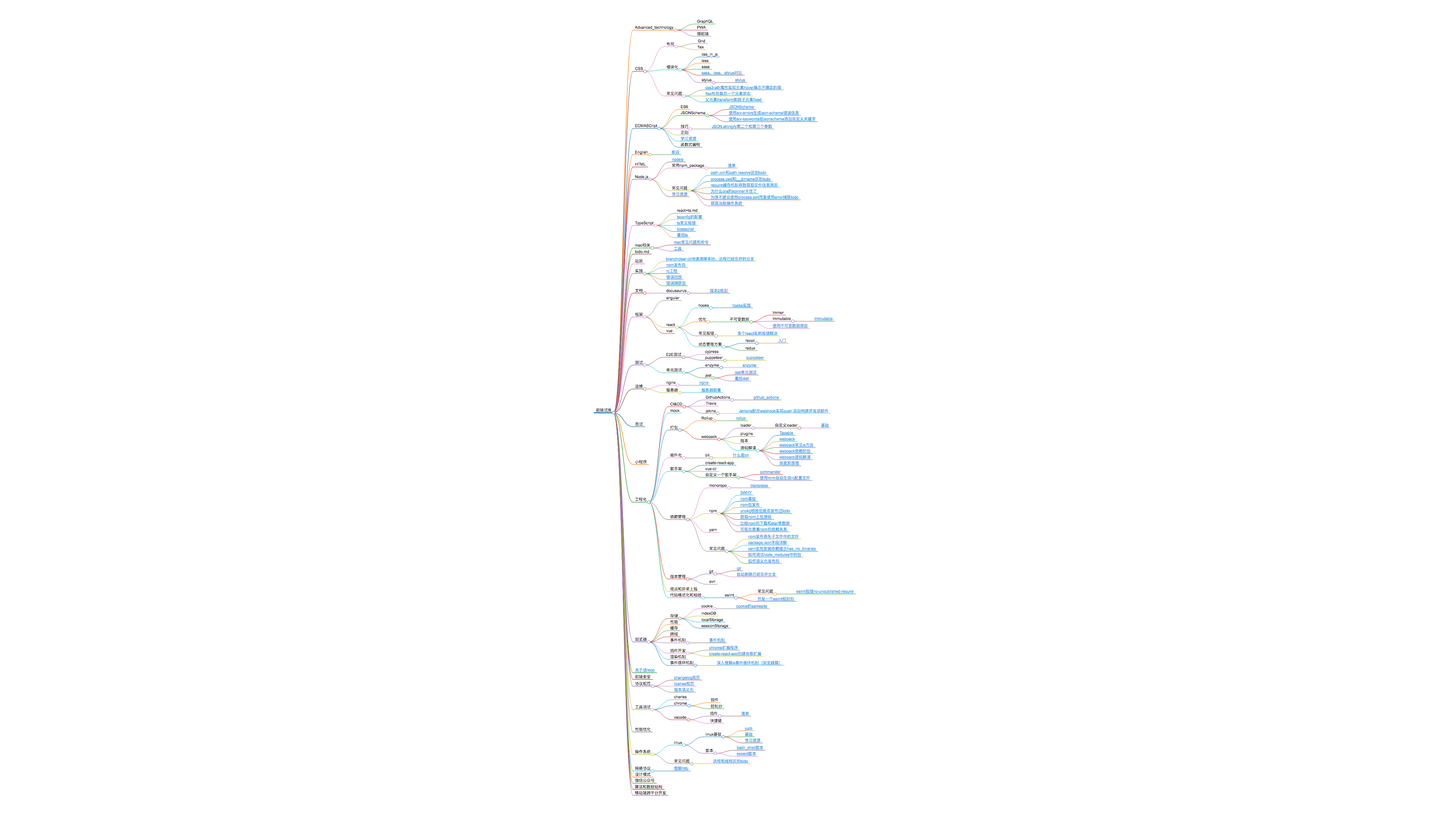
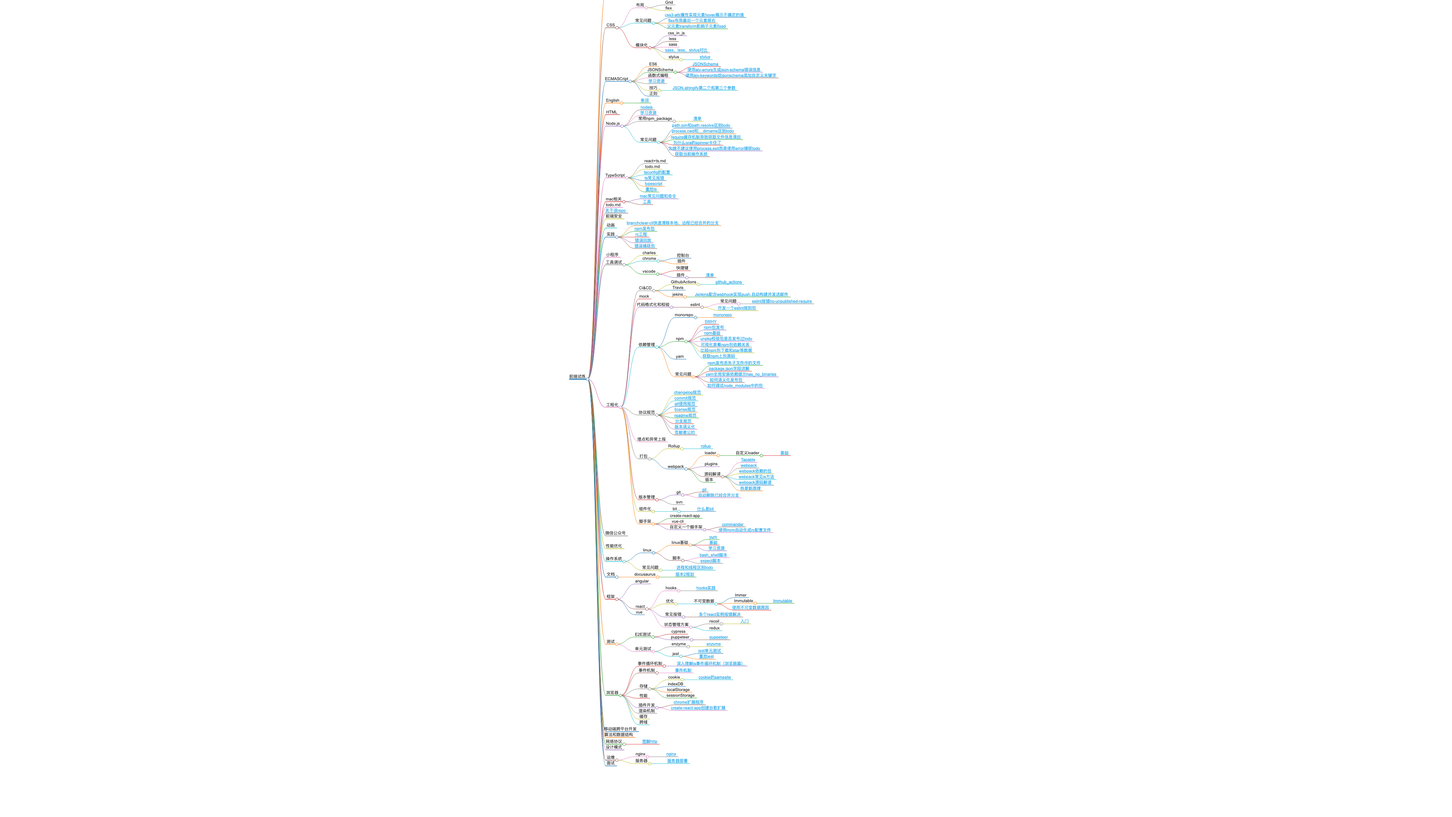
chore: updata思维导图

Changed region(s): [[0.4062, 0.0, 0.5625, 0.9926]]

diff --git a/website/static/xmind.html b/website/static/xmind.html
@@ -28,6 +28,6 @@
         (init ? init(loadPlugins, items, opts) : Promise.resolve()).then(() => {
           window.mm = Markmap.create('svg#mindmap', null, data);
         });
-      })({"t":"heading","d":1,"v":"前端试炼","c":[{"t":"list_item","d":2,"v":"Advanced_technology","c":[{"t":"list_item","d":3,"v":"GraphQL"},{"t":"list_item","d":3,"v":"PWA"},{"t":"list_item","d":3,"v":"微前端"}]},{"t":"list_item","d":2,"v":"CSS","c":[{"t":"list_item","d":3,"v":"布局","c":[{"t":"list_item","d":4,"v":"Grid"},{"t":"list_item","d":4,"v":"flex"}]},{"t":"list_item","d":3,"v":"模块化","c":[{"t":"list_item","d":4,"v":"css_in_js"},{"t":"list_item","d":4,"v":"less"},{"t":"list_item","d":4,"v":"sass"},{"t":"list_item","d":4,"v":"<a href=\"docs/CSS/模块化/98c70242585e1c8ac87207d342ab81e0\" title=\"\" target=\"_blank\" rel=\"noopener noreferrer\">sass、less、stylus对比</a>"},{"t":"list_item","d":4,"v":"stylus","c":[{"t":"list_item","d":5,"v":"<a href=\"docs/CSS/模块化/stylus/3eef002bc8e16c0f5c28e748a52e231d\" title=\"\" target=\"_blank\" rel=\"noopener noreferrer\">stylus</a>"}]}]},{"t":"list_item","d":3,"v":"常见问题","c":[{"t":"list_item","d":4,"v":"<a href=\"docs/CSS/常见问题/61b2f8a60701c5411f074197b3433767\" title=\"\" target=\"_blank\" rel=\"noopener noreferrer\">css3-attr属性实现元素hover展示不确定的值</a>"},{"t":"list_item","d":4,"v":"<a href=\"docs/CSS/常见问题/f62b493f30c8df1b193364b4dee70da6\" title=\"\" target=\"_blank\" rel=\"noopener noreferrer\">flex布局最后一个元素居右</a>"},{"t":"list_item","d":4,"v":"<a href=\"docs/CSS/常见问题/caabb2c62d551b0596f7d903c362be1c\" title=\"\" target=\"_blank\" rel=\"noopener noreferrer\">父元素transform影响子元素fixed</a>"}]}]},{"t":"list_item","d":2,"v":"ECMASCript","c":[{"t":"list_item","d":3,"v":"ES6"},{"t":"list_item","d":3,"v":"JSONSchema","c":[{"t":"list_item","d":4,"v":"<a href=\"docs/ECMASCript/JSONSchema/718deb34c13a2d51e3c2ba69f472fce9\" title=\"\" target=\"_blank\" rel=\"noopener noreferrer\">JSONSchema</a>"},{"t":"list_item","d":4,"v":"<a href=\"docs/ECMASCript/JSONSchema/f7964c8f9054ea24043d6089ad339147\" title=\"\" target=\"_blank\" rel=\"noopener noreferrer\">使用ajv-errors生成json-schema错误信息</a>"},{"t":"list_item","d":4,"v":"<a href=\"docs/ECMASCript/JSONSchema/5237e232cb7cb852580db82169fdcaeb\" title=\"\" target=\"_blank\" rel=\"noopener noreferrer\">使用ajv-keywords给jsonschema添加自定义关键字</a>"}]},{"t":"list_item","d":3,"v":"技巧","c":[{"t":"list_item","d":4,"v":"<a href=\"docs/ECMASCript/技巧/5139b5f5e47a4d72104039ad03405c5d\" title=\"\" target=\"_blank\" rel=\"noopener noreferrer\">JSON.stringify第二个和第三个参数</a>"}]},{"t":"list_item","d":3,"v":"正则"},{"t":"list_item","d":3,"v":"<a href=\"docs/ECMASCript/b53484b1bcbe1911e09c68d510ac7d64\" title=\"\" target=\"_blank\" rel=\"noopener noreferrer\">学习资源</a>"},{"t":"list_item","d":3,"v":"函数式编程"}]},{"t":"list_item","d":2,"v":"English","c":[{"t":"list_item","d":3,"v":"<a href=\"docs/English/72a91cf59167d6c497b1e3057447af5a\" title=\"\" target=\"_blank\" rel=\"noopener noreferrer\">单词</a>"}]},{"t":"list_item","d":2,"v":"HTML"},{"t":"list_item","d":2,"v":"Node.js","c":[{"t":"list_item","d":3,"v":"<a href=\"docs/Node.js/9357827bccfd0bf3ae944e8deeb1fa48\" title=\"\" target=\"_blank\" rel=\"noopener noreferrer\">nodejs</a>"},{"t":"list_item","d":3,"v":"常用npm_package","c":[{"t":"list_item","d":4,"v":"<a href=\"docs/Node.js/常用npm_package/5b48dd8280d9d24945307c72022765a0\" title=\"\" target=\"_blank\" rel=\"noopener noreferrer\">清单</a>"}]},{"t":"list_item","d":3,"v":"常见问题","c":[{"t":"list_item","d":4,"v":"<a href=\"docs/Node.js/常见问题/f874460aea01b819cbf70140c60331a4\" title=\"\" target=\"_blank\" rel=\"noopener noreferrer\">path.join和path.resolve区别todo</a>"},{"t":"list_item","d":4,"v":"<a href=\"docs/Node.js/常见问题/50ed84a6800346cb4b1d9cd9c13745d5\" title=\"\" target=\"_blank\" rel=\"noopener noreferrer\">process.cwd和__dirname区别todo</a>"},{"t":"list_item","d":4,"v":"<a href=\"docs/Node.js/常见问题/6f48d8764eaa96778c489f0f9b512dd3\" title=\"\" target=\"_blank\" rel=\"noopener noreferrer\">require缓存机制导致获取文件信息滞后</a>"},{"t":"list_item","d":4,"v":"<a href=\"docs/Node.js/常见问题/35838b51774b034e2d8dedd5458518ff\" title=\"\" target=\"_blank\" rel=\"noopener noreferrer\">为什么ora的spinner卡住了</a>"},{"t":"list_item","d":4,"v":"<a href=\"docs/Node.js/常见问题/d3fd7ec814edd2f7330387995085241f\" title=\"\" target=\"_blank\" rel=\"noopener noreferrer\">为啥不建议使用process.exit而是使用error捕获todo</a>"},{"t":"list_item","d":4,"v":"<a href=\"docs/Node.js/常见问题/bf0629eadb8aaeb89078485e6f68a4e6\" title=\"\" target=\"_blank\" rel=\"noopener noreferrer\">获取当前操作系统</a>"}]},{"t":"list_item","d":3,"v":"<a href=\"docs/ECMASCript/b53484b1bcbe1911e09c68d510ac7d64\" title=\"\" target=\"_blank\" rel=\"noopener noreferrer\">学习资源</a>"}]},{"t":"list_item","d":2,"v":"TypeScript","c":[{"t":"list_item","d":3,"v":"react+ts.md"},{"t":"list_item","d":3,"v":"<a href=\"docs/TypeScript/941029577f8137518ccff8392ddf4bfc\" title=\"\" target=\"_blank\" rel=\"noopener noreferrer\">tsconfig的配置</a>"},{"t":"list_item","d":3,"v":"<a href=\"docs/TypeScript/e387b68cc466c705d3a61c3582db7e05\" title=\"\" target=\"_blank\" rel=\"noopener noreferrer\">ts常见报错</a>"},{"t":"list_item","d":3,"v":"<a href=\"docs/TypeScript/808567b84cc51ad515d4820e54f84e31\" title=\"\" target=\"_blank\" rel=\"noopener noreferrer\">typescript</a>"},{"t":"list_item","d":3,"v":"<a href=\"docs/TypeScript/b36f6376acc1abd98aab96ef91491d2b\" title=\"\" target=\"_blank\" rel=\"noopener noreferrer\">重拾ts</a>"}]},{"t":"list_item","d":2,"v":"mac相关","c":[{"t":"list_item","d":3,"v":"<a href=\"docs/mac相关/f9043ab4f4bd67e13820f42a3e175b56\" title=\"\" target=\"_blank\" rel=\"noopener noreferrer\">mac常见问题和命令</a>"},{"t":"list_item","d":3,"v":"<a href=\"docs/mac相关/82d4f547f3142fe4ef26499f9a3096c0\" title=\"\" target=\"_blank\" rel=\"noopener noreferrer\">工具</a>"}]},{"t":"list_item","d":2,"v":"todo.md"},{"t":"list_item","d":2,"v":"动画"},{"t":"list_item","d":2,"v":"实践","c":[{"t":"list_item","d":3,"v":"<a href=\"docs/实践/bff45875a92bdbb4eff38e2fbd282edc\" title=\"\" target=\"_blank\" rel=\"noopener noreferrer\">branchclear-cli快速清除本地、远程已经合并的分支</a>"},{"t":"list_item","d":3,"v":"<a href=\"docs/实践/2469535958ab34e35a788187a49b0f1e\" title=\"\" target=\"_blank\" rel=\"noopener noreferrer\">npm发布包</a>"},{"t":"list_item","d":3,"v":"<a href=\"docs/实践/313041df792b3259a4a58cf8d04c6698\" title=\"\" target=\"_blank\" rel=\"noopener noreferrer\">rc工程</a>"},{"t":"list_item","d":3,"v":"<a href=\"docs/实践/56302d5167213b96a771b67db23abbcc\" title=\"\" target=\"_blank\" rel=\"noopener noreferrer\">错误回放</a>"},{"t":"list_item","d":3,"v":"<a href=\"docs/实践/81ea3d4409458738eefff8329646b6f7\" title=\"\" target=\"_blank\" rel=\"noopener noreferrer\">错误捕获包</a>"}]},{"t":"list_item","d":2,"v":"文档","c":[{"t":"list_item","d":3,"v":"docusaurus","c":[{"t":"list_item","d":4,"v":"<a href=\"docs/文档/docusaurus/a7934b68b6234157a1af4087537d1e8b\" title=\"\" target=\"_blank\" rel=\"noopener noreferrer\">版本2规划</a>"}]}]},{"t":"list_item","d":2,"v":"框架","c":[{"t":"list_item","d":3,"v":"angular"},{"t":"list_item","d":3,"v":"react","c":[{"t":"list_item","d":4,"v":"hooks","c":[{"t":"list_item","d":5,"v":"<a href=\"docs/框架/react/hooks/9991378aff737eabebd91bfda98cdb30\" title=\"\" target=\"_blank\" rel=\"noopener noreferrer\">hooks实践</a>"}]},{"t":"list_item","d":4,"v":"优化","c":[{"t":"list_item","d":5,"v":"不可变数据","c":[{"t":"list_item","d":6,"v":"Immer"},{"t":"list_item","d":6,"v":"Immutable","c":[{"t":"list_item","d":7,"v":"<a href=\"docs/框架/react/优化/不可变数据/Immutable/621796f5446f10b3efc9f3e9e5ba1f85\" title=\"\" target=\"_blank\" rel=\"noopener noreferrer\">Immutable</a>"}]},{"t":"list_item","d":6,"v":"<a href=\"docs/框架/react/优化/不可变数据/5dbc6cd87c89bc3c45fc1c7847cf5f4a\" title=\"\" target=\"_blank\" rel=\"noopener noreferrer\">使用不可变数据原因</a>"}]}]},{"t":"list_item","d":4,"v":"常见报错","c":[{"t":"list_item","d":5,"v":"<a href=\"docs/框架/react/常见报错/7d0e60c89a5f550eadf89f5f22550bcc\" title=\"\" target=\"_blank\" rel=\"noopener noreferrer\">多个react实例报错解决</a>"}]},{"t":"list_item","d":4,"v":"状态管理方案","c":[{"t":"list_item","d":5,"v":"recoil","c":[{"t":"list_item","d":6,"v":"<a href=\"docs/框架/react/状态管理方案/recoil/f875b638480655fa74ed57f634dda816\" title=\"\" target=\"_blank\" rel=\"noopener noreferrer\">入门</a>"}]},{"t":"list_item","d":5,"v":"redux"}]}]},{"t":"list_item","d":3,"v":"vue"}]},{"t":"list_item","d":2,"v":"测试","c":[{"t":"list_item","d":3,"v":"E2E测试","c":[{"t":"list_item","d":4,"v":"cypress"},{"t":"list_item","d":4,"v":"puppeteer","c":[{"t":"list_item","d":5,"v":"<a href=\"docs/测试/E2E测试/puppeteer/179673e977b3c3f9ad055a4b4a1e4eff\" title=\"\" target=\"_blank\" rel=\"noopener noreferrer\">puppeteer</a>"}]}]},{"t":"list_item","d":3,"v":"单元测试","c":[{"t":"list_item","d":4,"v":"enzyme","c":[{"t":"list_item","d":5,"v":"<a href=\"docs/测试/单元测试/enzyme/ff68fd239a281351a53d6e0b62b17fe7\" title=\"\" target=\"_blank\" rel=\"noopener noreferrer\">enzyme</a>"}]},{"t":"list_item","d":4,"v":"jest","c":[{"t":"list_item","d":5,"v":"<a href=\"docs/测试/单元测试/jest/094b039468990ad513f1f8dd484d8dc2\" title=\"\" target=\"_blank\" rel=\"noopener noreferrer\">jest单元测试</a>"},{"t":"list_item","d":5,"v":"<a href=\"docs/测试/单元测试/jest/b1f6cee7ef1784df1f5f69a9c4a785da\" title=\"\" target=\"_blank\" rel=\"noopener noreferrer\">重拾jest</a>"}]}]}]},{"t":"list_item","d":2,"v":"运维","c":[{"t":"list_item","d":3,"v":"nginx","c":[{"t":"list_item","d":4,"v":"<a href=\"docs/运维/nginx/c135a55ada5c373bcd601d340d2d1943\" title=\"\" target=\"_blank\" rel=\"noopener noreferrer\">nginx</a>"}]},{"t":"list_item","d":3,"v":"服务器","c":[{"t":"list_item","d":4,"v":"<a href=\"docs/运维/服务器/4534c39b9f5e4932e9fafed646293fde\" title=\"\" target=\"_blank\" rel=\"noopener noreferrer\">服务器部署</a>"}]}]},{"t":"list_item","d":2,"v":"面试"},{"t":"list_item","d":2,"v":"小程序"},{"t":"list_item","d":2,"v":"工程化","c":[{"t":"list_item","d":3,"v":"CI&amp;CD","c":[{"t":"list_item","d":4,"v":"GithubActions","c":[{"t":"list_item","d":5,"v":"<a href=\"docs/工程化/CI&amp;CD/GithubActions/fe800869807e028c2189be18d866bdb6\" title=\"\" target=\"_blank\" rel=\"noopener noreferrer\">github_actions</a>"}]},{"t":"list_item","d":4,"v":"Travis"},{"t":"list_item","d":4,"v":"jekins","c":[{"t":"list_item","d":5,"v":"<a href=\"docs/工程化/CI&amp;CD/jekins/a3cef5366f4fcb032201811a2888d464\" title=\"\" target=\"_blank\" rel=\"noopener noreferrer\">Jenkins配合webhook实现push,自动构建并发送邮件</a>"}]}]},{"t":"list_item","d":3,"v":"mock"},{"t":"list_item","d":3,"v":"打包","c":[{"t":"list_item","d":4,"v":"Rollup","c":[{"t":"list_item","d":5,"v":"<a href=\"docs/工程化/打包/Rollup/4918d3072fb3da6be9ad6cfe54c020f3\" title=\"\" target=\"_blank\" rel=\"noopener noreferrer\">rollup</a>"}]},{"t":"list_item","d":4,"v":"webpack","c":[{"t":"list_item","d":5,"v":"loader","c":[{"t":"list_item","d":6,"v":"自定义loader","c":[{"t":"list_item","d":7,"v":"<a href=\"docs/工程化/打包/webpack/loader/自定义loader/bb6fe2d423417230b7c365bc5b206c5c\" title=\"\" target=\"_blank\" rel=\"noopener noreferrer\">基础</a>"}]}]},{"t":"list_item","d":5,"v":"plugins"},{"t":"list_item","d":5,"v":"版本"},{"t":"list_item","d":5,"v":"源码解读","c":[{"t":"list_item","d":6,"v":"<a href=\"docs/工程化/打包/webpack/源码解读/3044cf73a36f83e5344247f79ffb719e\" title=\"\" target=\"_blank\" rel=\"noopener noreferrer\">Tapable</a>"},{"t":"list_item","d":6,"v":"<a href=\"docs/工程化/打包/webpack/源码解读/8b9409a6ad189493556150ffca9a2079\" title=\"\" target=\"_blank\" rel=\"noopener noreferrer\">webpack</a>"},{"t":"list_item","d":6,"v":"<a href=\"docs/工程化/打包/webpack/源码解读/7cb10912f28c1696659c6131b517f27c\" title=\"\" target=\"_blank\" rel=\"noopener noreferrer\">webpack常见js方法</a>"},{"t":"list_item","d":6,"v":"<a href=\"docs/工程化/打包/webpack/源码解读/0889ebe5191ee49173a6c02e5d4ccd6f\" title=\"\" target=\"_blank\" rel=\"noopener noreferrer\">webpack依赖的包</a>"},{"t":"list_item","d":6,"v":"<a href=\"docs/工程化/打包/webpack/源码解读/80e8979bbebe30571bf98fea6d3b32d0\" title=\"\" target=\"_blank\" rel=\"noopener noreferrer\">webpack源码解读</a>"},{"t":"list_item","d":6,"v":"<a href=\"docs/工程化/打包/webpack/源码解读/768e191e2dc797ba437ddbf619dcf3b5\" title=\"\" target=\"_blank\" rel=\"noopener noreferrer\">热更新原理</a>"}]}]}]},{"t":"list_item","d":3,"v":"组件化","c":[{"t":"list_item","d":4,"v":"bit","c":[{"t":"list_item","d":5,"v":"<a href=\"docs/工程化/组件化/bit/be1ca961dc46d96b90f640b1a9f91637\" title=\"\" target=\"_blank\" rel=\"noopener noreferrer\">什么是bit</a>"}]}]},{"t":"list_item","d":3,"v":"脚手架","c":[{"t":"list_item","d":4,"v":"create-react-app"},{"t":"list_item","d":4,"v":"vue-cli"},{"t":"list_item","d":4,"v":"自定义一个脚手架","c":[{"t":"list_item","d":5,"v":"<a href=\"docs/工程化/脚手架/自定义一个脚手架/e1f3c1423014acd77d6282114faf6935\" title=\"\" target=\"_blank\" rel=\"noopener noreferrer\">commander</a>"},{"t":"list_item","d":5,"v":"<a href=\"docs/工程化/脚手架/自定义一个脚手架/a22104b4d4d83949f5bd3d6a37f5e0e6\" title=\"\" target=\"_blank\" rel=\"noopener noreferrer\">使用mrm自动生成rc配置文件</a>"}]}]},{"t":"list_item","d":3,"v":"依赖管理","c":[{"t":"list_item","d":4,"v":"monorepo","c":[{"t":"list_item","d":5,"v":"<a href=\"docs/工程化/依赖管理/monorepo/9a9bdec52d1d0df963f2fce797a41aeb\" title=\"\" target=\"_blank\" rel=\"noopener noreferrer\">monorepo</a>"}]},{"t":"list_item","d":4,"v":"npm","c":[{"t":"list_item","d":5,"v":"<a href=\"docs/工程化/依赖管理/npm/15732057d56b45df172c9f42dce5b927\" title=\"\" target=\"_blank\" rel=\"noopener noreferrer\">5WHY</a>"},{"t":"list_item","d":5,"v":"<a href=\"docs/工程化/依赖管理/npm/b4cd825516ccfa3a2629d71cd4d83e57\" title=\"\" target=\"_blank\" rel=\"noopener noreferrer\">npm基础</a>"},{"t":"list_item","d":5,"v":"<a href=\"docs/工程化/依赖管理/npm/5fce1d4981826dba4313269418bc61cc\" title=\"\" target=\"_blank\" rel=\"noopener noreferrer\">npm包发布</a>"},{"t":"list_item","d":5,"v":"<a href=\"docs/工程化/依赖管理/npm/1db0a7579e96a363551decd8e85b6344\" title=\"\" target=\"_blank\" rel=\"noopener noreferrer\">unpkg校验包是否发布过todo</a>"},{"t":"list_item","d":5,"v":"<a href=\"docs/工程化/依赖管理/npm/f8e85efb13561e8ef5b95ea6fa058971\" title=\"\" target=\"_blank\" rel=\"noopener noreferrer\">获取npm上包源码</a>"},{"t":"list_item","d":5,"v":"<a href=\"docs/工程化/依赖管理/npm/3d58eee4c0acb507c3e44d4009328e72\" title=\"\" target=\"_blank\" rel=\"noopener noreferrer\">比较npm包下载和star等数据</a>"},{"t":"list_item","d":5,"v":"<a href=\"docs/工程化/依赖管理/npm/f60305b20503e9d2ad9309764e2f6033\" title=\"\" target=\"_blank\" rel=\"noopener noreferrer\">可视化查看npm包依赖关系</a>"}]},{"t":"list_item","d":4,"v":"yarn"},{"t":"list_item","d":4,"v":"常见问题","c":[{"t":"list_item","d":5,"v":"<a href=\"docs/工程化/依赖管理/常见问题/80c3108e07b7e17fbc2f62fe3ce3cf5a\" title=\"\" target=\"_blank\" rel=\"noopener noreferrer\">npm发布丢失子文件中的文件</a>"},{"t":"list_item","d":5,"v":"<a href=\"docs/工程化/依赖管理/常见问题/4bb2ebe839492522a5f9e23333349030\" title=\"\" target=\"_blank\" rel=\"noopener noreferrer\">package.json字段详解</a>"},{"t":"list_item","d":5,"v":"<a href=\"docs/工程化/依赖管理/常见问题/e2b91ae01897224042badfeabb4e9943\" title=\"\" target=\"_blank\" rel=\"noopener noreferrer\">yarn全局安装依赖提示has_no_binaries</a>"},{"t":"list_item","d":5,"v":"<a href=\"docs/工程化/依赖管理/常见问题/5465da474f6f60291fb1a253cce06f5f\" title=\"\" target=\"_blank\" rel=\"noopener noreferrer\">如何调试node_modules中的包</a>"},{"t":"list_item","d":5,"v":"<a href=\"docs/工程化/依赖管理/常见问题/8661f79af48a1805d3bb8e9b0776c7af\" title=\"\" target=\"_blank\" rel=\"noopener noreferrer\">如何语义化发布包</a>"}]}]},{"t":"list_item","d":3,"v":"版本管理","c":[{"t":"list_item","d":4,"v":"git","c":[{"t":"list_item","d":5,"v":"<a href=\"docs/工程化/版本管理/git/a3c10acfacecd20085ffd19a4b785459\" title=\"\" target=\"_blank\" rel=\"noopener noreferrer\">git</a>"},{"t":"list_item","d":5,"v":"<a href=\"docs/工程化/版本管理/git/d22c453d0f1b235abd0a15ed6699608a\" title=\"\" target=\"_blank\" rel=\"noopener noreferrer\">自动删除已经合并分支</a>"}]},{"t":"list_item","d":4,"v":"svn"}]},{"t":"list_item","d":3,"v":"埋点和异常上报"},{"t":"list_item","d":3,"v":"代码格式化和校验","c":[{"t":"list_item","d":4,"v":"eslint","c":[{"t":"list_item","d":5,"v":"常见问题","c":[{"t":"list_item","d":6,"v":"<a href=\"docs/工程化/代码格式化和校验/eslint/常见问题/233da306cf55234202a23869df56766b\" title=\"\" target=\"_blank\" rel=\"noopener noreferrer\">eslint报错no-unpublished-require</a>"}]},{"t":"list_item","d":5,"v":"<a href=\"docs/工程化/代码格式化和校验/eslint/a32e173f131f0493cb5fc48bf410366b\" title=\"\" target=\"_blank\" rel=\"noopener noreferrer\">开发一个eslint规则包</a>"}]}]}]},{"t":"list_item","d":2,"v":"浏览器","c":[{"t":"list_item","d":3,"v":"存储","c":[{"t":"list_item","d":4,"v":"cookie","c":[{"t":"list_item","d":5,"v":"<a href=\"docs/浏览器/存储/cookie/e246237f5824539bdb32194314b5afd5\" title=\"\" target=\"_blank\" rel=\"noopener noreferrer\">cookie的samesite</a>"}]},{"t":"list_item","d":4,"v":"indexDB"},{"t":"list_item","d":4,"v":"localStorage"},{"t":"list_item","d":4,"v":"sessionStorage"}]},{"t":"list_item","d":3,"v":"性能"},{"t":"list_item","d":3,"v":"缓存"},{"t":"list_item","d":3,"v":"跨域"},{"t":"list_item","d":3,"v":"事件机制","c":[{"t":"list_item","d":4,"v":"<a href=\"docs/浏览器/事件机制/87752b53c7784786dab3942f0aaa23aa\" title=\"\" target=\"_blank\" rel=\"noopener noreferrer\">事件机制</a>"}]},{"t":"list_item","d":3,"v":"插件开发","c":[{"t":"list_item","d":4,"v":"<a href=\"docs/浏览器/插件开发/05456f7f836f1d5ccf67498cad9d6745\" title=\"\" target=\"_blank\" rel=\"noopener noreferrer\">chrome扩展程序</a>"},{"t":"list_item","d":4,"v":"<a href=\"docs/浏览器/插件开发/4a29e3516544d5fec60d6c604d33dd46\" title=\"\" target=\"_blank\" rel=\"noopener noreferrer\">create-react-app创建谷歌扩展</a>"}]},{"t":"list_item","d":3,"v":"渲染机制"},{"t":"list_item","d":3,"v":"事件循环机制","c":[{"t":"list_item","d":4,"v":"<a href=\"docs/浏览器/事件循环机制/9cf564181c2b2d6a44c89a4d1f4f0952\" title=\"\" target=\"_blank\" rel=\"noopener noreferrer\">深入理解js事件循环机制（浏览器篇）</a>"}]}]},{"t":"list_item","d":2,"v":"<a href=\"docs/95a148348b289ba387509c05eb1c6af2\" title=\"\" target=\"_blank\" rel=\"noopener noreferrer\">关于该repo</a>"},{"t":"list_item","d":2,"v":"前端安全"},{"t":"list_item","d":2,"v":"协议规范","c":[{"t":"list_item","d":3,"v":"<a href=\"docs/协议规范/08e4ee70cac077e8e29110f3fc5f7ca1\" title=\"\" target=\"_blank\" rel=\"noopener noreferrer\">changelog规范</a>"},{"t":"list_item","d":3,"v":"<a href=\"docs/协议规范/c0cdc0b6086c374d267130b1ae1544fa\" title=\"\" target=\"_blank\" rel=\"noopener noreferrer\">license规范</a>"},{"t":"list_item","d":3,"v":"<a href=\"docs/协议规范/e71b23dfa36e0093f928df8d8ea28b6b\" title=\"\" target=\"_blank\" rel=\"noopener noreferrer\">版本语义化</a>"}]},{"t":"list_item","d":2,"v":"工具调试","c":[{"t":"list_item","d":3,"v":"charles"},{"t":"list_item","d":3,"v":"chrome","c":[{"t":"list_item","d":4,"v":"插件"},{"t":"list_item","d":4,"v":"控制台"}]},{"t":"list_item","d":3,"v":"vscode","c":[{"t":"list_item","d":4,"v":"插件","c":[{"t":"list_item","d":5,"v":"<a href=\"docs/Node.js/常用npm_package/5b48dd8280d9d24945307c72022765a0\" title=\"\" target=\"_blank\" rel=\"noopener noreferrer\">清单</a>"}]},{"t":"list_item","d":4,"v":"快捷键"}]}]},{"t":"list_item","d":2,"v":"性能优化"},{"t":"list_item","d":2,"v":"操作系统","c":[{"t":"list_item","d":3,"v":"linux","c":[{"t":"list_item","d":4,"v":"linux基础","c":[{"t":"list_item","d":5,"v":"<a href=\"docs/操作系统/linux/linux基础/4c70355f2f692142ff83f1581fd5342c\" title=\"\" target=\"_blank\" rel=\"noopener noreferrer\">yum</a>"},{"t":"list_item","d":5,"v":"<a href=\"docs/工程化/打包/webpack/loader/自定义loader/bb6fe2d423417230b7c365bc5b206c5c\" title=\"\" target=\"_blank\" rel=\"noopener noreferrer\">基础</a>"},{"t":"list_item","d":5,"v":"<a href=\"docs/ECMASCript/b53484b1bcbe1911e09c68d510ac7d64\" title=\"\" target=\"_blank\" rel=\"noopener noreferrer\">学习资源</a>"}]},{"t":"list_item","d":4,"v":"脚本","c":[{"t":"list_item","d":5,"v":"<a href=\"docs/操作系统/linux/脚本/5d8743a01675138db72310478b6c7f30\" title=\"\" target=\"_blank\" rel=\"noopener noreferrer\">bash_shell脚本</a>"},{"t":"list_item","d":5,"v":"<a href=\"docs/操作系统/linux/脚本/c89e3ed149c086944696ba0fe3a5ffde\" title=\"\" target=\"_blank\" rel=\"noopener noreferrer\">expect脚本</a>"}]}]},{"t":"list_item","d":3,"v":"常见问题","c":[{"t":"list_item","d":4,"v":"<a href=\"docs/操作系统/常见问题/266a427dc6cbff56d8603056f435a8b9\" title=\"\" target=\"_blank\" rel=\"noopener noreferrer\">进程和线程区别todo</a>"}]}]},{"t":"list_item","d":2,"v":"网络协议","c":[{"t":"list_item","d":3,"v":"<a href=\"docs/网络协议/51598b43a209ae4d33a59bb92df20032\" title=\"\" target=\"_blank\" rel=\"noopener noreferrer\">图解http</a>"}]},{"t":"list_item","d":2,"v":"设计模式"},{"t":"list_item","d":2,"v":"微信公众号"},{"t":"list_item","d":2,"v":"算法和数据结构"},{"t":"list_item","d":2,"v":"移动端跨平台开发"}]},(loadPlugins, items, opts) => loadPlugins(items, opts),["prism"],{"prism":true})</script>
+      })({"t":"heading","d":1,"v":"前端试炼","c":[{"t":"list_item","d":2,"v":"Advanced_technology","c":[{"t":"list_item","d":3,"v":"GraphQL"},{"t":"list_item","d":3,"v":"PWA"},{"t":"list_item","d":3,"v":"微前端"}]},{"t":"list_item","d":2,"v":"CSS","c":[{"t":"list_item","d":3,"v":"布局","c":[{"t":"list_item","d":4,"v":"Grid"},{"t":"list_item","d":4,"v":"flex"}]},{"t":"list_item","d":3,"v":"常见问题","c":[{"t":"list_item","d":4,"v":"<a href=\"docs/CSS/常见问题/61b2f8a60701c5411f074197b3433767\" title=\"\" target=\"_blank\" rel=\"noopener noreferrer\">css3-attr属性实现元素hover展示不确定的值</a>"},{"t":"list_item","d":4,"v":"<a href=\"docs/CSS/常见问题/f62b493f30c8df1b193364b4dee70da6\" title=\"\" target=\"_blank\" rel=\"noopener noreferrer\">flex布局最后一个元素居右</a>"},{"t":"list_item","d":4,"v":"<a href=\"docs/CSS/常见问题/caabb2c62d551b0596f7d903c362be1c\" title=\"\" target=\"_blank\" rel=\"noopener noreferrer\">父元素transform影响子元素fixed</a>"}]},{"t":"list_item","d":3,"v":"模块化","c":[{"t":"list_item","d":4,"v":"css_in_js"},{"t":"list_item","d":4,"v":"less"},{"t":"list_item","d":4,"v":"sass"},{"t":"list_item","d":4,"v":"<a href=\"docs/CSS/模块化/98c70242585e1c8ac87207d342ab81e0\" title=\"\" target=\"_blank\" rel=\"noopener noreferrer\">sass、less、stylus对比</a>"},{"t":"list_item","d":4,"v":"stylus","c":[{"t":"list_item","d":5,"v":"<a href=\"docs/CSS/模块化/stylus/3eef002bc8e16c0f5c28e748a52e231d\" title=\"\" target=\"_blank\" rel=\"noopener noreferrer\">stylus</a>"}]}]}]},{"t":"list_item","d":2,"v":"ECMASCript","c":[{"t":"list_item","d":3,"v":"ES6"},{"t":"list_item","d":3,"v":"JSONSchema","c":[{"t":"list_item","d":4,"v":"<a href=\"docs/ECMASCript/JSONSchema/718deb34c13a2d51e3c2ba69f472fce9\" title=\"\" target=\"_blank\" rel=\"noopener noreferrer\">JSONSchema</a>"},{"t":"list_item","d":4,"v":"<a href=\"docs/ECMASCript/JSONSchema/f7964c8f9054ea24043d6089ad339147\" title=\"\" target=\"_blank\" rel=\"noopener noreferrer\">使用ajv-errors生成json-schema错误信息</a>"},{"t":"list_item","d":4,"v":"<a href=\"docs/ECMASCript/JSONSchema/5237e232cb7cb852580db82169fdcaeb\" title=\"\" target=\"_blank\" rel=\"noopener noreferrer\">使用ajv-keywords给jsonschema添加自定义关键字</a>"}]},{"t":"list_item","d":3,"v":"函数式编程"},{"t":"list_item","d":3,"v":"<a href=\"docs/ECMASCript/b53484b1bcbe1911e09c68d510ac7d64\" title=\"\" target=\"_blank\" rel=\"noopener noreferrer\">学习资源</a>"},{"t":"list_item","d":3,"v":"技巧","c":[{"t":"list_item","d":4,"v":"<a href=\"docs/ECMASCript/技巧/5139b5f5e47a4d72104039ad03405c5d\" title=\"\" target=\"_blank\" rel=\"noopener noreferrer\">JSON.stringify第二个和第三个参数</a>"}]},{"t":"list_item","d":3,"v":"正则"}]},{"t":"list_item","d":2,"v":"English","c":[{"t":"list_item","d":3,"v":"<a href=\"docs/English/72a91cf59167d6c497b1e3057447af5a\" title=\"\" target=\"_blank\" rel=\"noopener noreferrer\">单词</a>"}]},{"t":"list_item","d":2,"v":"HTML"},{"t":"list_item","d":2,"v":"Node.js","c":[{"t":"list_item","d":3,"v":"<a href=\"docs/Node.js/9357827bccfd0bf3ae944e8deeb1fa48\" title=\"\" target=\"_blank\" rel=\"noopener noreferrer\">nodejs</a>"},{"t":"list_item","d":3,"v":"<a href=\"docs/ECMASCript/b53484b1bcbe1911e09c68d510ac7d64\" title=\"\" target=\"_blank\" rel=\"noopener noreferrer\">学习资源</a>"},{"t":"list_item","d":3,"v":"常用npm_package","c":[{"t":"list_item","d":4,"v":"<a href=\"docs/Node.js/常用npm_package/5b48dd8280d9d24945307c72022765a0\" title=\"\" target=\"_blank\" rel=\"noopener noreferrer\">清单</a>"}]},{"t":"list_item","d":3,"v":"常见问题","c":[{"t":"list_item","d":4,"v":"<a href=\"docs/Node.js/常见问题/f874460aea01b819cbf70140c60331a4\" title=\"\" target=\"_blank\" rel=\"noopener noreferrer\">path.join和path.resolve区别todo</a>"},{"t":"list_item","d":4,"v":"<a href=\"docs/Node.js/常见问题/50ed84a6800346cb4b1d9cd9c13745d5\" title=\"\" target=\"_blank\" rel=\"noopener noreferrer\">process.cwd和__dirname区别todo</a>"},{"t":"list_item","d":4,"v":"<a href=\"docs/Node.js/常见问题/6f48d8764eaa96778c489f0f9b512dd3\" title=\"\" target=\"_blank\" rel=\"noopener noreferrer\">require缓存机制导致获取文件信息滞后</a>"},{"t":"list_item","d":4,"v":"<a href=\"docs/Node.js/常见问题/35838b51774b034e2d8dedd5458518ff\" title=\"\" target=\"_blank\" rel=\"noopener noreferrer\">为什么ora的spinner卡住了</a>"},{"t":"list_item","d":4,"v":"<a href=\"docs/Node.js/常见问题/d3fd7ec814edd2f7330387995085241f\" title=\"\" target=\"_blank\" rel=\"noopener noreferrer\">为啥不建议使用process.exit而是使用error捕获todo</a>"},{"t":"list_item","d":4,"v":"<a href=\"docs/Node.js/常见问题/bf0629eadb8aaeb89078485e6f68a4e6\" title=\"\" target=\"_blank\" rel=\"noopener noreferrer\">获取当前操作系统</a>"}]}]},{"t":"list_item","d":2,"v":"TypeScript","c":[{"t":"list_item","d":3,"v":"react+ts.md"},{"t":"list_item","d":3,"v":"todo.md"},{"t":"list_item","d":3,"v":"<a href=\"docs/TypeScript/941029577f8137518ccff8392ddf4bfc\" title=\"\" target=\"_blank\" rel=\"noopener noreferrer\">tsconfig的配置</a>"},{"t":"list_item","d":3,"v":"<a href=\"docs/TypeScript/e387b68cc466c705d3a61c3582db7e05\" title=\"\" target=\"_blank\" rel=\"noopener noreferrer\">ts常见报错</a>"},{"t":"list_item","d":3,"v":"<a href=\"docs/TypeScript/808567b84cc51ad515d4820e54f84e31\" title=\"\" target=\"_blank\" rel=\"noopener noreferrer\">typescript</a>"},{"t":"list_item","d":3,"v":"<a href=\"docs/TypeScript/b36f6376acc1abd98aab96ef91491d2b\" title=\"\" target=\"_blank\" rel=\"noopener noreferrer\">重拾ts</a>"}]},{"t":"list_item","d":2,"v":"mac相关","c":[{"t":"list_item","d":3,"v":"<a href=\"docs/mac相关/f9043ab4f4bd67e13820f42a3e175b56\" title=\"\" target=\"_blank\" rel=\"noopener noreferrer\">mac常见问题和命令</a>"},{"t":"list_item","d":3,"v":"<a href=\"docs/mac相关/82d4f547f3142fe4ef26499f9a3096c0\" title=\"\" target=\"_blank\" rel=\"noopener noreferrer\">工具</a>"}]},{"t":"list_item","d":2,"v":"todo.md"},{"t":"list_item","d":2,"v":"<a href=\"docs/95a148348b289ba387509c05eb1c6af2\" title=\"\" target=\"_blank\" rel=\"noopener noreferrer\">关于该repo</a>"},{"t":"list_item","d":2,"v":"前端安全"},{"t":"list_item","d":2,"v":"动画"},{"t":"list_item","d":2,"v":"实践","c":[{"t":"list_item","d":3,"v":"<a href=\"docs/实践/bff45875a92bdbb4eff38e2fbd282edc\" title=\"\" target=\"_blank\" rel=\"noopener noreferrer\">branchclear-cli快速清除本地、远程已经合并的分支</a>"},{"t":"list_item","d":3,"v":"<a href=\"docs/实践/2469535958ab34e35a788187a49b0f1e\" title=\"\" target=\"_blank\" rel=\"noopener noreferrer\">npm发布包</a>"},{"t":"list_item","d":3,"v":"<a href=\"docs/实践/313041df792b3259a4a58cf8d04c6698\" title=\"\" target=\"_blank\" rel=\"noopener noreferrer\">rc工程</a>"},{"t":"list_item","d":3,"v":"<a href=\"docs/实践/56302d5167213b96a771b67db23abbcc\" title=\"\" target=\"_blank\" rel=\"noopener noreferrer\">错误回放</a>"},{"t":"list_item","d":3,"v":"<a href=\"docs/实践/81ea3d4409458738eefff8329646b6f7\" title=\"\" target=\"_blank\" rel=\"noopener noreferrer\">错误捕获包</a>"}]},{"t":"list_item","d":2,"v":"小程序"},{"t":"list_item","d":2,"v":"工具调试","c":[{"t":"list_item","d":3,"v":"charles"},{"t":"list_item","d":3,"v":"chrome","c":[{"t":"list_item","d":4,"v":"控制台"},{"t":"list_item","d":4,"v":"插件"}]},{"t":"list_item","d":3,"v":"vscode","c":[{"t":"list_item","d":4,"v":"快捷键"},{"t":"list_item","d":4,"v":"插件","c":[{"t":"list_item","d":5,"v":"<a href=\"docs/Node.js/常用npm_package/5b48dd8280d9d24945307c72022765a0\" title=\"\" target=\"_blank\" rel=\"noopener noreferrer\">清单</a>"}]}]}]},{"t":"list_item","d":2,"v":"工程化","c":[{"t":"list_item","d":3,"v":"CI&amp;CD","c":[{"t":"list_item","d":4,"v":"GithubActions","c":[{"t":"list_item","d":5,"v":"<a href=\"docs/工程化/CI&amp;CD/GithubActions/fe800869807e028c2189be18d866bdb6\" title=\"\" target=\"_blank\" rel=\"noopener noreferrer\">github_actions</a>"}]},{"t":"list_item","d":4,"v":"Travis"},{"t":"list_item","d":4,"v":"jekins","c":[{"t":"list_item","d":5,"v":"<a href=\"docs/工程化/CI&amp;CD/jekins/a3cef5366f4fcb032201811a2888d464\" title=\"\" target=\"_blank\" rel=\"noopener noreferrer\">Jenkins配合webhook实现push,自动构建并发送邮件</a>"}]}]},{"t":"list_item","d":3,"v":"mock"},{"t":"list_item","d":3,"v":"代码格式化和校验","c":[{"t":"list_item","d":4,"v":"eslint","c":[{"t":"list_item","d":5,"v":"常见问题","c":[{"t":"list_item","d":6,"v":"<a href=\"docs/工程化/代码格式化和校验/eslint/常见问题/233da306cf55234202a23869df56766b\" title=\"\" target=\"_blank\" rel=\"noopener noreferrer\">eslint报错no-unpublished-require</a>"}]},{"t":"list_item","d":5,"v":"<a href=\"docs/工程化/代码格式化和校验/eslint/a32e173f131f0493cb5fc48bf410366b\" title=\"\" target=\"_blank\" rel=\"noopener noreferrer\">开发一个eslint规则包</a>"}]}]},{"t":"list_item","d":3,"v":"依赖管理","c":[{"t":"list_item","d":4,"v":"monorepo","c":[{"t":"list_item","d":5,"v":"<a href=\"docs/工程化/依赖管理/monorepo/9a9bdec52d1d0df963f2fce797a41aeb\" title=\"\" target=\"_blank\" rel=\"noopener noreferrer\">monorepo</a>"}]},{"t":"list_item","d":4,"v":"npm","c":[{"t":"list_item","d":5,"v":"<a href=\"docs/工程化/依赖管理/npm/15732057d56b45df172c9f42dce5b927\" title=\"\" target=\"_blank\" rel=\"noopener noreferrer\">5WHY</a>"},{"t":"list_item","d":5,"v":"<a href=\"docs/工程化/依赖管理/npm/5fce1d4981826dba4313269418bc61cc\" title=\"\" target=\"_blank\" rel=\"noopener noreferrer\">npm包发布</a>"},{"t":"list_item","d":5,"v":"<a href=\"docs/工程化/依赖管理/npm/b4cd825516ccfa3a2629d71cd4d83e57\" title=\"\" target=\"_blank\" rel=\"noopener noreferrer\">npm基础</a>"},{"t":"list_item","d":5,"v":"<a href=\"docs/工程化/依赖管理/npm/1db0a7579e96a363551decd8e85b6344\" title=\"\" target=\"_blank\" rel=\"noopener noreferrer\">unpkg校验包是否发布过todo</a>"},{"t":"list_item","d":5,"v":"<a href=\"docs/工程化/依赖管理/npm/f60305b20503e9d2ad9309764e2f6033\" title=\"\" target=\"_blank\" rel=\"noopener noreferrer\">可视化查看npm包依赖关系</a>"},{"t":"list_item","d":5,"v":"<a href=\"docs/工程化/依赖管理/npm/3d58eee4c0acb507c3e44d4009328e72\" title=\"\" target=\"_blank\" rel=\"noopener noreferrer\">比较npm包下载和star等数据</a>"},{"t":"list_item","d":5,"v":"<a href=\"docs/工程化/依赖管理/npm/f8e85efb13561e8ef5b95ea6fa058971\" title=\"\" target=\"_blank\" rel=\"noopener noreferrer\">获取npm上包源码</a>"}]},{"t":"list_item","d":4,"v":"yarn"},{"t":"list_item","d":4,"v":"常见问题","c":[{"t":"list_item","d":5,"v":"<a href=\"docs/工程化/依赖管理/常见问题/80c3108e07b7e17fbc2f62fe3ce3cf5a\" title=\"\" target=\"_blank\" rel=\"noopener noreferrer\">npm发布丢失子文件中的文件</a>"},{"t":"list_item","d":5,"v":"<a href=\"docs/工程化/依赖管理/常见问题/4bb2ebe839492522a5f9e23333349030\" title=\"\" target=\"_blank\" rel=\"noopener noreferrer\">package.json字段详解</a>"},{"t":"list_item","d":5,"v":"<a href=\"docs/工程化/依赖管理/常见问题/e2b91ae01897224042badfeabb4e9943\" title=\"\" target=\"_blank\" rel=\"noopener noreferrer\">yarn全局安装依赖提示has_no_binaries</a>"},{"t":"list_item","d":5,"v":"<a href=\"docs/工程化/依赖管理/常见问题/8661f79af48a1805d3bb8e9b0776c7af\" title=\"\" target=\"_blank\" rel=\"noopener noreferrer\">如何语义化发布包</a>"},{"t":"list_item","d":5,"v":"<a href=\"docs/工程化/依赖管理/常见问题/5465da474f6f60291fb1a253cce06f5f\" title=\"\" target=\"_blank\" rel=\"noopener noreferrer\">如何调试node_modules中的包</a>"}]}]},{"t":"list_item","d":3,"v":"协议规范","c":[{"t":"list_item","d":4,"v":"<a href=\"docs/工程化/协议规范/63e3f15bc79b1f9b0c4d967587030c59\" title=\"\" target=\"_blank\" rel=\"noopener noreferrer\">changelog规范</a>"},{"t":"list_item","d":4,"v":"<a href=\"docs/工程化/协议规范/ea0f1a36d31f9c158a2e4ccfce38a876\" title=\"\" target=\"_blank\" rel=\"noopener noreferrer\">commit规范</a>"},{"t":"list_item","d":4,"v":"<a href=\"docs/工程化/协议规范/723396924c4ed2f7f00c90ea454b2a88\" title=\"\" target=\"_blank\" rel=\"noopener noreferrer\">git使用规范</a>"},{"t":"list_item","d":4,"v":"<a href=\"docs/工程化/协议规范/7cb3f7a96ffb83a09cd86829799a9fbf\" title=\"\" target=\"_blank\" rel=\"noopener noreferrer\">license规范</a>"},{"t":"list_item","d":4,"v":"<a href=\"docs/工程化/协议规范/49a592b47a06fa922f7d3741cac14eb8\" title=\"\" target=\"_blank\" rel=\"noopener noreferrer\">readme规范</a>"},{"t":"list_item","d":4,"v":"<a href=\"docs/工程化/协议规范/55025379543350af856931f78ede1ceb\" title=\"\" target=\"_blank\" rel=\"noopener noreferrer\">分支规范</a>"},{"t":"list_item","d":4,"v":"<a href=\"docs/工程化/协议规范/6da04cfcfd8b3c384aac71250ab4ca40\" title=\"\" target=\"_blank\" rel=\"noopener noreferrer\">版本语义化</a>"},{"t":"list_item","d":4,"v":"<a href=\"docs/工程化/协议规范/059a10050efba50f107ff235a91cbc8c\" title=\"\" target=\"_blank\" rel=\"noopener noreferrer\">贡献者公约</a>"}]},{"t":"list_item","d":3,"v":"埋点和异常上报"},{"t":"list_item","d":3,"v":"打包","c":[{"t":"list_item","d":4,"v":"Rollup","c":[{"t":"list_item","d":5,"v":"<a href=\"docs/工程化/打包/Rollup/4918d3072fb3da6be9ad6cfe54c020f3\" title=\"\" target=\"_blank\" rel=\"noopener noreferrer\">rollup</a>"}]},{"t":"list_item","d":4,"v":"webpack","c":[{"t":"list_item","d":5,"v":"loader","c":[{"t":"list_item","d":6,"v":"自定义loader","c":[{"t":"list_item","d":7,"v":"<a href=\"docs/工程化/打包/webpack/loader/自定义loader/bb6fe2d423417230b7c365bc5b206c5c\" title=\"\" target=\"_blank\" rel=\"noopener noreferrer\">基础</a>"}]}]},{"t":"list_item","d":5,"v":"plugins"},{"t":"list_item","d":5,"v":"源码解读","c":[{"t":"list_item","d":6,"v":"<a href=\"docs/工程化/打包/webpack/源码解读/3044cf73a36f83e5344247f79ffb719e\" title=\"\" target=\"_blank\" rel=\"noopener noreferrer\">Tapable</a>"},{"t":"list_item","d":6,"v":"<a href=\"docs/工程化/打包/webpack/源码解读/8b9409a6ad189493556150ffca9a2079\" title=\"\" target=\"_blank\" rel=\"noopener noreferrer\">webpack</a>"},{"t":"list_item","d":6,"v":"<a href=\"docs/工程化/打包/webpack/源码解读/0889ebe5191ee49173a6c02e5d4ccd6f\" title=\"\" target=\"_blank\" rel=\"noopener noreferrer\">webpack依赖的包</a>"},{"t":"list_item","d":6,"v":"<a href=\"docs/工程化/打包/webpack/源码解读/7cb10912f28c1696659c6131b517f27c\" title=\"\" target=\"_blank\" rel=\"noopener noreferrer\">webpack常见js方法</a>"},{"t":"list_item","d":6,"v":"<a href=\"docs/工程化/打包/webpack/源码解读/80e8979bbebe30571bf98fea6d3b32d0\" title=\"\" target=\"_blank\" rel=\"noopener noreferrer\">webpack源码解读</a>"},{"t":"list_item","d":6,"v":"<a href=\"docs/工程化/打包/webpack/源码解读/768e191e2dc797ba437ddbf619dcf3b5\" title=\"\" target=\"_blank\" rel=\"noopener noreferrer\">热更新原理</a>"}]},{"t":"list_item","d":5,"v":"版本"}]}]},{"t":"list_item","d":3,"v":"版本管理","c":[{"t":"list_item","d":4,"v":"git","c":[{"t":"list_item","d":5,"v":"<a href=\"docs/工程化/版本管理/git/a3c10acfacecd20085ffd19a4b785459\" title=\"\" target=\"_blank\" rel=\"noopener noreferrer\">git</a>"},{"t":"list_item","d":5,"v":"<a href=\"docs/工程化/版本管理/git/d22c453d0f1b235abd0a15ed6699608a\" title=\"\" target=\"_blank\" rel=\"noopener noreferrer\">自动删除已经合并分支</a>"}]},{"t":"list_item","d":4,"v":"svn"}]},{"t":"list_item","d":3,"v":"组件化","c":[{"t":"list_item","d":4,"v":"bit","c":[{"t":"list_item","d":5,"v":"<a href=\"docs/工程化/组件化/bit/be1ca961dc46d96b90f640b1a9f91637\" title=\"\" target=\"_blank\" rel=\"noopener noreferrer\">什么是bit</a>"}]}]},{"t":"list_item","d":3,"v":"脚手架","c":[{"t":"list_item","d":4,"v":"create-react-app"},{"t":"list_item","d":4,"v":"vue-cli"},{"t":"list_item","d":4,"v":"自定义一个脚手架","c":[{"t":"list_item","d":5,"v":"<a href=\"docs/工程化/脚手架/自定义一个脚手架/e1f3c1423014acd77d6282114faf6935\" title=\"\" target=\"_blank\" rel=\"noopener noreferrer\">commander</a>"},{"t":"list_item","d":5,"v":"<a href=\"docs/工程化/脚手架/自定义一个脚手架/a22104b4d4d83949f5bd3d6a37f5e0e6\" title=\"\" target=\"_blank\" rel=\"noopener noreferrer\">使用mrm自动生成rc配置文件</a>"}]}]}]},{"t":"list_item","d":2,"v":"微信公众号"},{"t":"list_item","d":2,"v":"性能优化"},{"t":"list_item","d":2,"v":"操作系统","c":[{"t":"list_item","d":3,"v":"linux","c":[{"t":"list_item","d":4,"v":"linux基础","c":[{"t":"list_item","d":5,"v":"<a href=\"docs/操作系统/linux/linux基础/4c70355f2f692142ff83f1581fd5342c\" title=\"\" target=\"_blank\" rel=\"noopener noreferrer\">yum</a>"},{"t":"list_item","d":5,"v":"<a href=\"docs/工程化/打包/webpack/loader/自定义loader/bb6fe2d423417230b7c365bc5b206c5c\" title=\"\" target=\"_blank\" rel=\"noopener noreferrer\">基础</a>"},{"t":"list_item","d":5,"v":"<a href=\"docs/ECMASCript/b53484b1bcbe1911e09c68d510ac7d64\" title=\"\" target=\"_blank\" rel=\"noopener noreferrer\">学习资源</a>"}]},{"t":"list_item","d":4,"v":"脚本","c":[{"t":"list_item","d":5,"v":"<a href=\"docs/操作系统/linux/脚本/5d8743a01675138db72310478b6c7f30\" title=\"\" target=\"_blank\" rel=\"noopener noreferrer\">bash_shell脚本</a>"},{"t":"list_item","d":5,"v":"<a href=\"docs/操作系统/linux/脚本/c89e3ed149c086944696ba0fe3a5ffde\" title=\"\" target=\"_blank\" rel=\"noopener noreferrer\">expect脚本</a>"}]}]},{"t":"list_item","d":3,"v":"常见问题","c":[{"t":"list_item","d":4,"v":"<a href=\"docs/操作系统/常见问题/266a427dc6cbff56d8603056f435a8b9\" title=\"\" target=\"_blank\" rel=\"noopener noreferrer\">进程和线程区别todo</a>"}]}]},{"t":"list_item","d":2,"v":"文档","c":[{"t":"list_item","d":3,"v":"docusaurus","c":[{"t":"list_item","d":4,"v":"<a href=\"docs/文档/docusaurus/a7934b68b6234157a1af4087537d1e8b\" title=\"\" target=\"_blank\" rel=\"noopener noreferrer\">版本2规划</a>"}]}]},{"t":"list_item","d":2,"v":"框架","c":[{"t":"list_item","d":3,"v":"angular"},{"t":"list_item","d":3,"v":"react","c":[{"t":"list_item","d":4,"v":"hooks","c":[{"t":"list_item","d":5,"v":"<a href=\"docs/框架/react/hooks/9991378aff737eabebd91bfda98cdb30\" title=\"\" target=\"_blank\" rel=\"noopener noreferrer\">hooks实践</a>"}]},{"t":"list_item","d":4,"v":"优化","c":[{"t":"list_item","d":5,"v":"不可变数据","c":[{"t":"list_item","d":6,"v":"Immer"},{"t":"list_item","d":6,"v":"Immutable","c":[{"t":"list_item","d":7,"v":"<a href=\"docs/框架/react/优化/不可变数据/Immutable/621796f5446f10b3efc9f3e9e5ba1f85\" title=\"\" target=\"_blank\" rel=\"noopener noreferrer\">Immutable</a>"}]},{"t":"list_item","d":6,"v":"<a href=\"docs/框架/react/优化/不可变数据/5dbc6cd87c89bc3c45fc1c7847cf5f4a\" title=\"\" target=\"_blank\" rel=\"noopener noreferrer\">使用不可变数据原因</a>"}]}]},{"t":"list_item","d":4,"v":"常见报错","c":[{"t":"list_item","d":5,"v":"<a href=\"docs/框架/react/常见报错/7d0e60c89a5f550eadf89f5f22550bcc\" title=\"\" target=\"_blank\" rel=\"noopener noreferrer\">多个react实例报错解决</a>"}]},{"t":"list_item","d":4,"v":"状态管理方案","c":[{"t":"list_item","d":5,"v":"recoil","c":[{"t":"list_item","d":6,"v":"<a href=\"docs/框架/react/状态管理方案/recoil/f875b638480655fa74ed57f634dda816\" title=\"\" target=\"_blank\" rel=\"noopener noreferrer\">入门</a>"}]},{"t":"list_item","d":5,"v":"redux"}]}]},{"t":"list_item","d":3,"v":"vue"}]},{"t":"list_item","d":2,"v":"测试","c":[{"t":"list_item","d":3,"v":"E2E测试","c":[{"t":"list_item","d":4,"v":"cypress"},{"t":"list_item","d":4,"v":"puppeteer","c":[{"t":"list_item","d":5,"v":"<a href=\"docs/测试/E2E测试/puppeteer/179673e977b3c3f9ad055a4b4a1e4eff\" title=\"\" target=\"_blank\" rel=\"noopener noreferrer\">puppeteer</a>"}]}]},{"t":"list_item","d":3,"v":"单元测试","c":[{"t":"list_item","d":4,"v":"enzyme","c":[{"t":"list_item","d":5,"v":"<a href=\"docs/测试/单元测试/enzyme/ff68fd239a281351a53d6e0b62b17fe7\" title=\"\" target=\"_blank\" rel=\"noopener noreferrer\">enzyme</a>"}]},{"t":"list_item","d":4,"v":"jest","c":[{"t":"list_item","d":5,"v":"<a href=\"docs/测试/单元测试/jest/094b039468990ad513f1f8dd484d8dc2\" title=\"\" target=\"_blank\" rel=\"noopener noreferrer\">jest单元测试</a>"},{"t":"list_item","d":5,"v":"<a href=\"docs/测试/单元测试/jest/b1f6cee7ef1784df1f5f69a9c4a785da\" title=\"\" target=\"_blank\" rel=\"noopener noreferrer\">重拾jest</a>"}]}]}]},{"t":"list_item","d":2,"v":"浏览器","c":[{"t":"list_item","d":3,"v":"事件循环机制","c":[{"t":"list_item","d":4,"v":"<a href=\"docs/浏览器/事件循环机制/9cf564181c2b2d6a44c89a4d1f4f0952\" title=\"\" target=\"_blank\" rel=\"noopener noreferrer\">深入理解js事件循环机制（浏览器篇）</a>"}]},{"t":"list_item","d":3,"v":"事件机制","c":[{"t":"list_item","d":4,"v":"<a href=\"docs/浏览器/事件机制/87752b53c7784786dab3942f0aaa23aa\" title=\"\" target=\"_blank\" rel=\"noopener noreferrer\">事件机制</a>"}]},{"t":"list_item","d":3,"v":"存储","c":[{"t":"list_item","d":4,"v":"cookie","c":[{"t":"list_item","d":5,"v":"<a href=\"docs/浏览器/存储/cookie/e246237f5824539bdb32194314b5afd5\" title=\"\" target=\"_blank\" rel=\"noopener noreferrer\">cookie的samesite</a>"}]},{"t":"list_item","d":4,"v":"indexDB"},{"t":"list_item","d":4,"v":"localStorage"},{"t":"list_item","d":4,"v":"sessionStorage"}]},{"t":"list_item","d":3,"v":"性能"},{"t":"list_item","d":3,"v":"插件开发","c":[{"t":"list_item","d":4,"v":"<a href=\"docs/浏览器/插件开发/05456f7f836f1d5ccf67498cad9d6745\" title=\"\" target=\"_blank\" rel=\"noopener noreferrer\">chrome扩展程序</a>"},{"t":"list_item","d":4,"v":"<a href=\"docs/浏览器/插件开发/4a29e3516544d5fec60d6c604d33dd46\" title=\"\" target=\"_blank\" rel=\"noopener noreferrer\">create-react-app创建谷歌扩展</a>"}]},{"t":"list_item","d":3,"v":"渲染机制"},{"t":"list_item","d":3,"v":"缓存"},{"t":"list_item","d":3,"v":"跨域"}]},{"t":"list_item","d":2,"v":"移动端跨平台开发"},{"t":"list_item","d":2,"v":"算法和数据结构"},{"t":"list_item","d":2,"v":"网络协议","c":[{"t":"list_item","d":3,"v":"<a href=\"docs/网络协议/51598b43a209ae4d33a59bb92df20032\" title=\"\" target=\"_blank\" rel=\"noopener noreferrer\">图解http</a>"}]},{"t":"list_item","d":2,"v":"设计模式"},{"t":"list_item","d":2,"v":"运维","c":[{"t":"list_item","d":3,"v":"nginx","c":[{"t":"list_item","d":4,"v":"<a href=\"docs/运维/nginx/c135a55ada5c373bcd601d340d2d1943\" title=\"\" target=\"_blank\" rel=\"noopener noreferrer\">nginx</a>"}]},{"t":"list_item","d":3,"v":"服务器","c":[{"t":"list_item","d":4,"v":"<a href=\"docs/运维/服务器/4534c39b9f5e4932e9fafed646293fde\" title=\"\" target=\"_blank\" rel=\"noopener noreferrer\">服务器部署</a>"}]}]},{"t":"list_item","d":2,"v":"面试"}]},(loadPlugins, items, opts) => loadPlugins(items, opts),["prism"],{"prism":true})</script>
 </body>
 </html>
